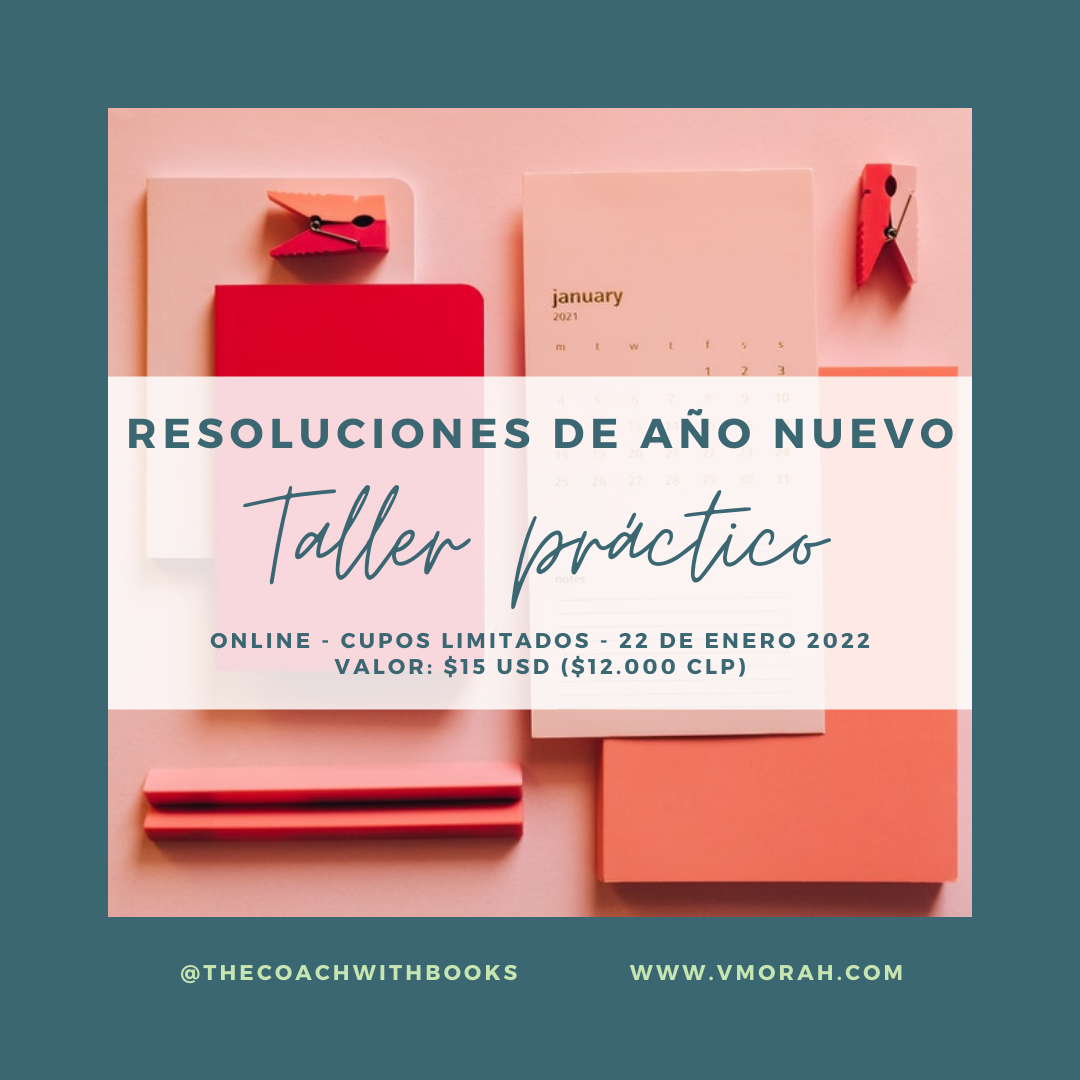
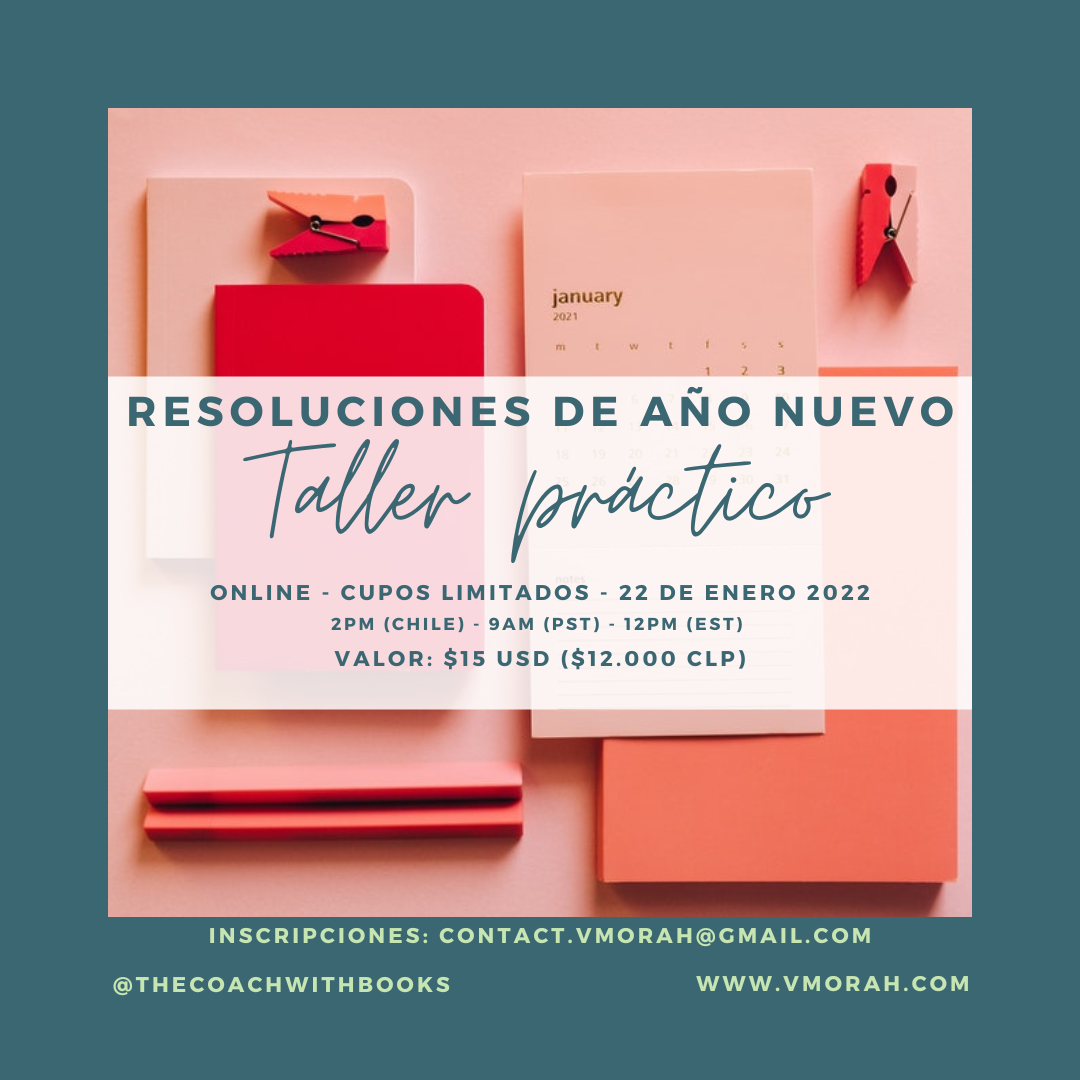
coaching

Changed region(s): [[0.1222, 0.3667, 0.8861, 0.6417], [0.0917, 0.8556, 0.9167, 0.9167]]

diff --git a/_pages/ESP_coaching.md b/_pages/ESP_coaching.md
@@ -4,7 +4,7 @@ description: Aprende más sobre cómo cumplir tus metas sin sacrificar tu bienes
 permalink: /esp_coaching/
 --- 
 # Ya casi llega el 2022. 
-<img align='left' src='/assets/images/2022NYworkshop/ESP_ Template DARK (3).png' width='50%' style='margin-right:1.5em' > ¿Sabes cuáles son tus resoluciones de año nuevo? Te invito a participar de este taller, porque:
+<img align='left' src='/assets/images/2022NYworkshop/ESP_ Template DARK (6).png' width='50%' style='margin-right:1.5em' > ¿Sabes cuáles son tus resoluciones de año nuevo? Te invito a participar de este taller, porque:
 <br />
 
 - Usaremos las herramientas del coaching grupal para reflexionar y crear metas realistas que se ajusten a tu realidad personal.
